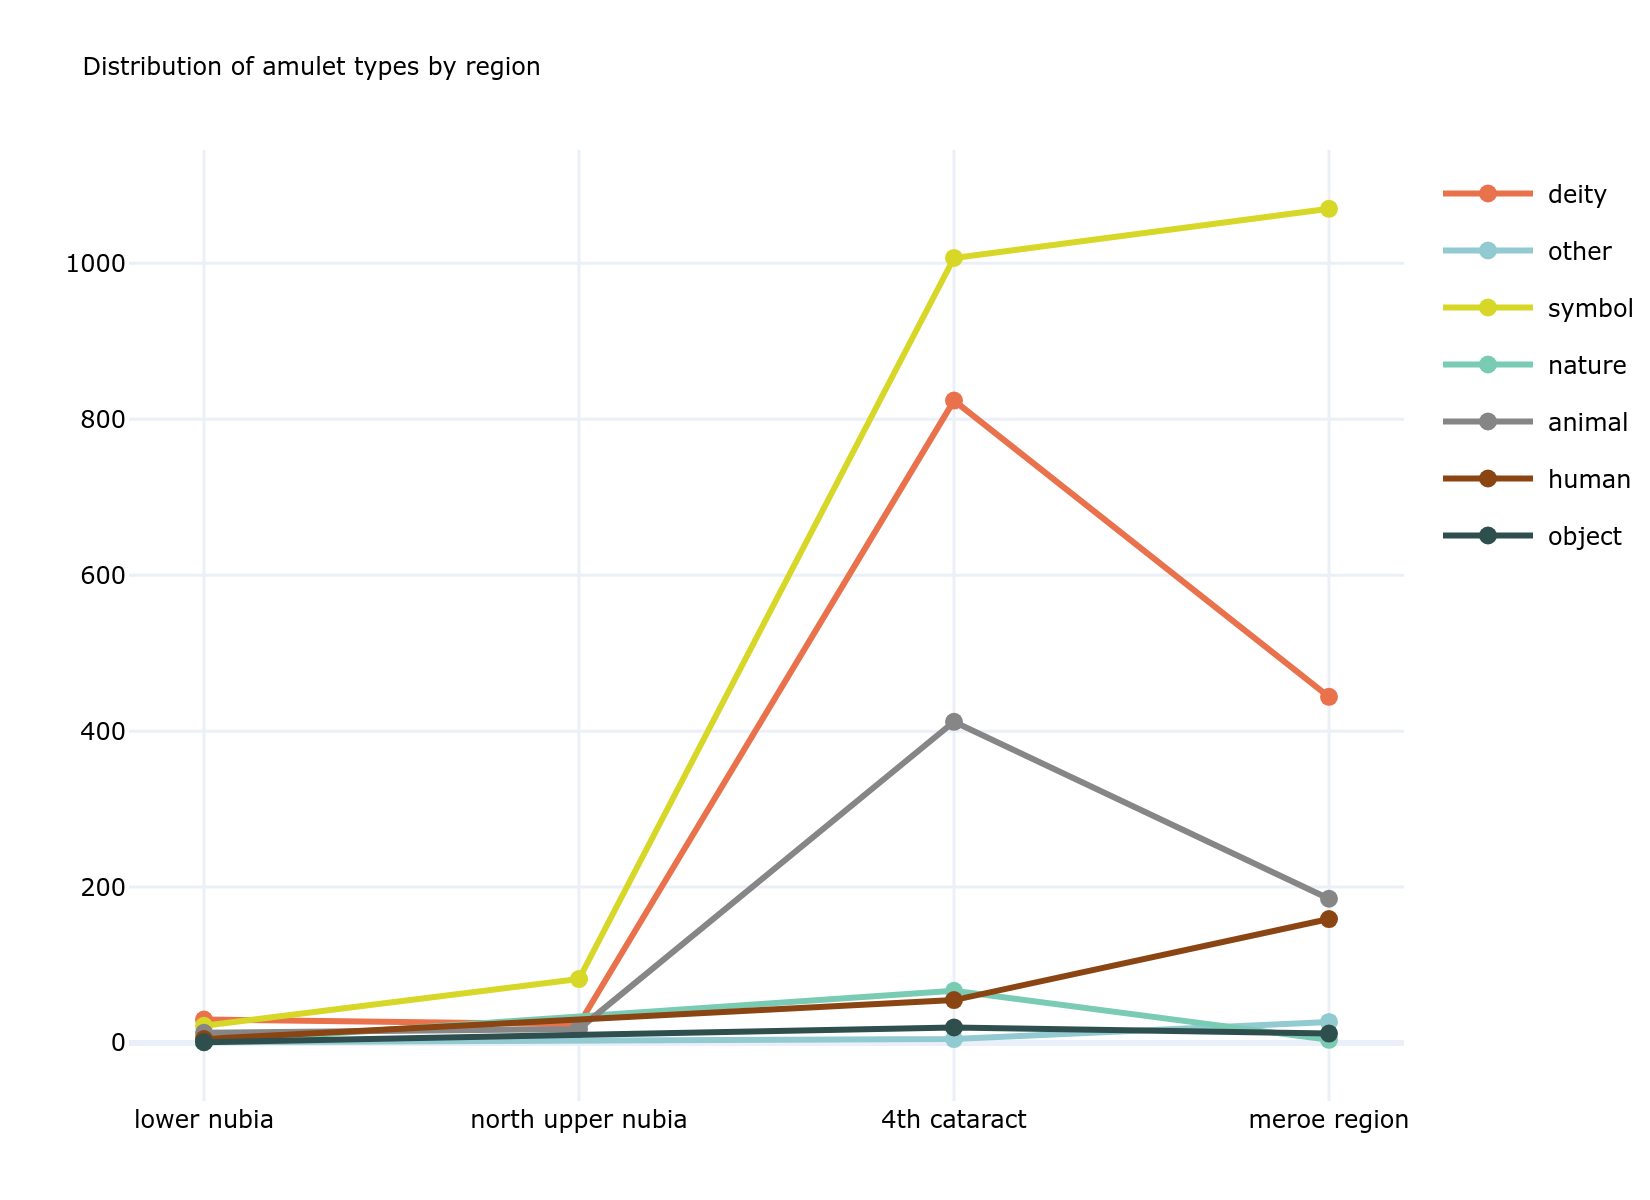
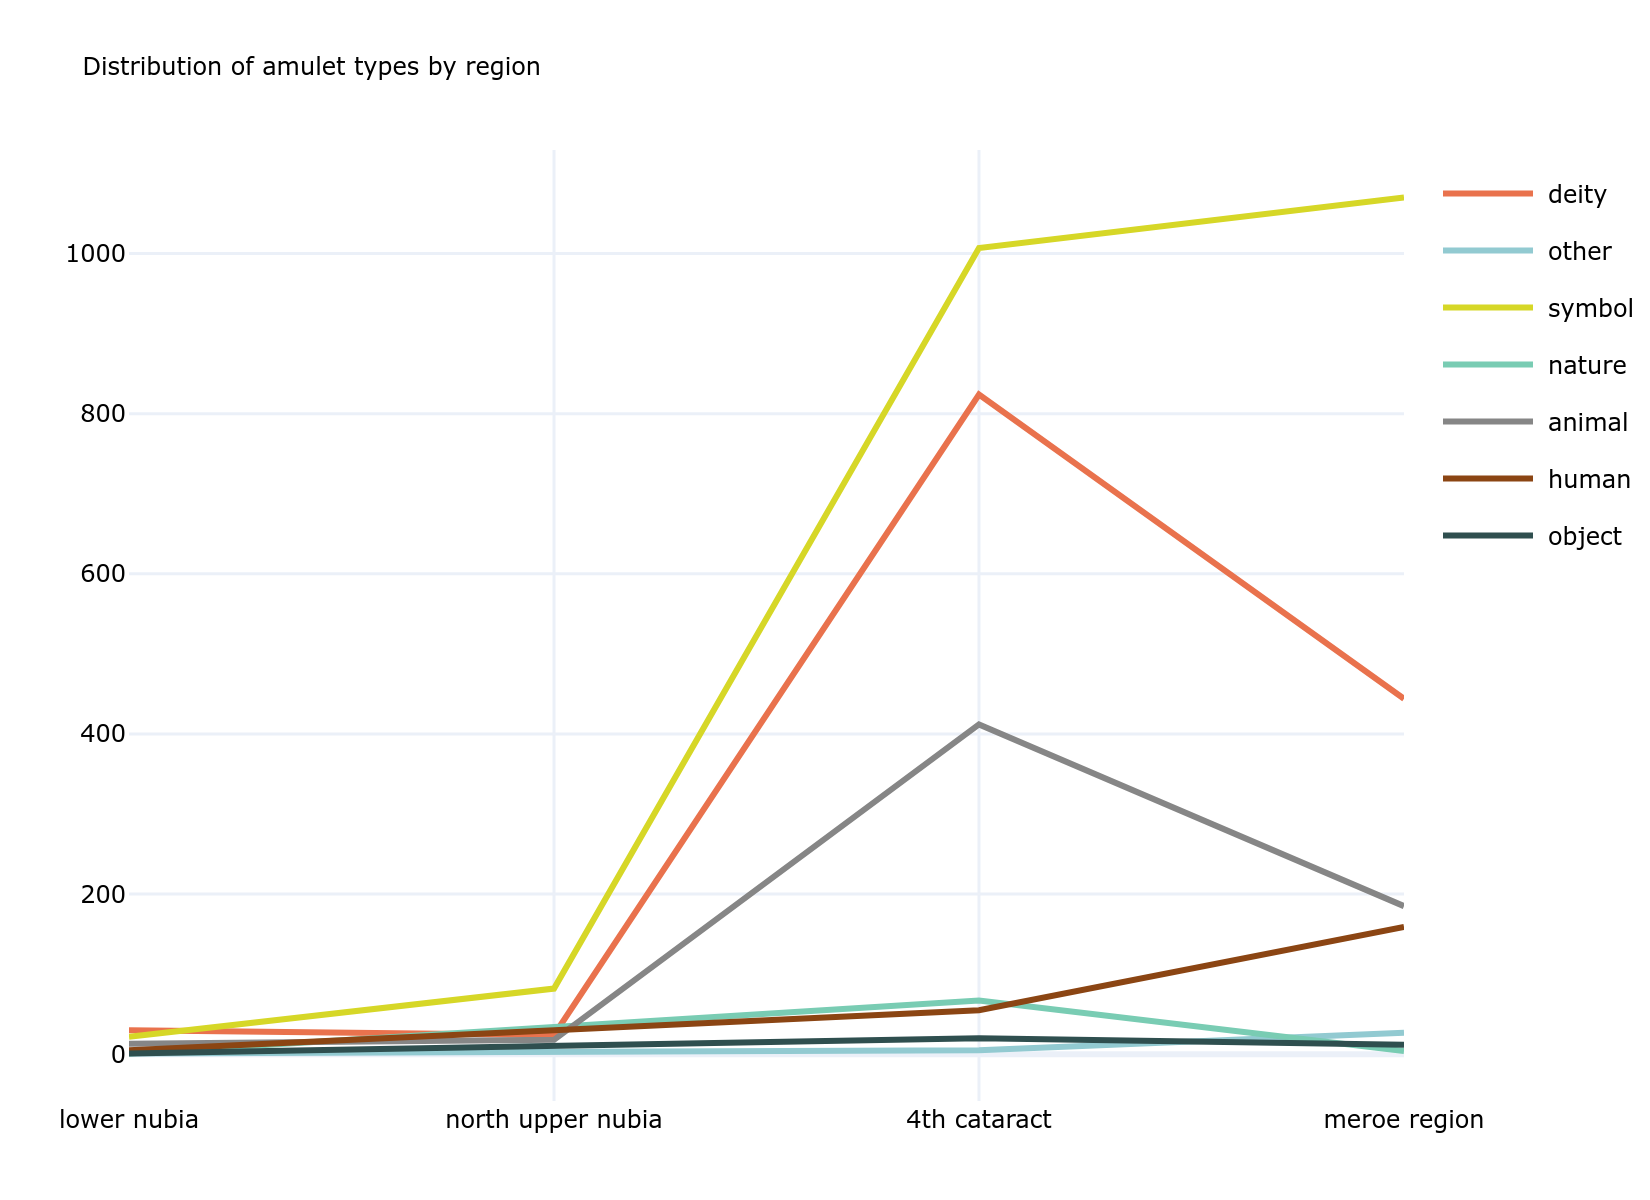
added materials

diff --git a/msac/region_materials.py b/msac/region_materials.py
@@ -1,0 +1,75 @@
+import pandas as pd
+import plotly.express as px
+from sqlalchemy import create_engine
+import plotly.io as pio
+import plotly.graph_objects as go
+
+engine = create_engine(f'mysql+pymysql://{os.getenv"DB_USER")}:{os.getenv("DB_PASSWORD")}@localhost/{os.getenv("DB_NAME")}')
+
+query = """
+SELECT
+    s.region,
+    CASE 
+        WHEN m.material_local = 1 THEN 'local'
+        WHEN m.material_imported = 1 THEN 'imported'
+    END as material_type,
+    COUNT(*) as count,
+    ROUND(
+        COUNT(*) * 100.0 / SUM(COUNT(*)) OVER (PARTITION BY s.region),
+        0
+    ) as percentage
+FROM amulets a
+JOIN materials m ON m.material_name = a.material
+JOIN sites s ON s.site_id = a.site_id
+JOIN burials b ON b.burial_id = a.burial_id
+WHERE dating = 'napatan' 
+    AND b.site_id IN (4,5,6,7,8,9,10) 
+    AND social_group = 'non-elite'
+    AND (m.material_local = 1 OR m.material_imported = 1)
+GROUP BY 1,2
+"""
+
+df = pd.read_sql(query, engine)
+
+custom_colors = ['#e9724d', '#92cad1', '#d6d727', '#79ccb3', '#868686',
+                 '#8b4513', '#2f4f4f', '#ff6b4a', '#20b2aa', '#daa520',
+                 '#cd5c5c', '#4682b4', '#e8ea7a', '#98fb98', '#696969']
+
+region_order = ["meroe region", "4th cataract", "north upper nubia", "lower nubia"]
+
+df['region'] = pd.Categorical(df['region'], categories=region_order, ordered=True)
+
+df = df.sort_values('region')
+
+fig = px.bar(
+    df,
+    x='percentage',
+    y='region',
+    text='percentage',
+    color='material_type',
+    barmode='group',
+    title='Distribution of imported and local materials by region (in %)',
+    template="plotly_white",
+    color_discrete_sequence=custom_colors
+)
+
+fig.update_layout(
+    legend=dict(
+        traceorder='reversed'), 
+    font=dict(
+        family="Verdana, sans-serif",
+        color='black',
+        size=8),
+    legend_title_text='',
+    #yaxis=dict(
+        #tickmode='linear',
+        #dtick=1),
+    margin=dict(l=0, r=10, t=50, b=0),
+    title_font=dict(size=8),
+)
+
+fig.update_traces(textposition='outside', textfont_size=6)
+fig.update_xaxes(title_text='')
+fig.update_yaxes(title_text='')
+
+pio.write_image(fig, 'images/msac/region_materials.png',scale=3, width=550, height=300)

diff --git a/msac/temp_materials.py b/msac/temp_materials.py
@@ -1,0 +1,74 @@
+import pandas as pd
+import plotly.express as px
+from sqlalchemy import create_engine
+import plotly.io as pio
+import plotly.graph_objects as go
+
+engine = create_engine(f'mysql+pymysql://{os.getenv"DB_USER")}:{os.getenv("DB_PASSWORD")}@localhost/{os.getenv("DB_NAME")}')
+
+query = """
+SELECT
+    b.temp,
+    CASE 
+        WHEN m.material_local = 1 THEN 'local'
+        WHEN m.material_imported = 1 THEN 'imported'
+    END as material_type,
+    COUNT(*) as count,
+    ROUND(
+        COUNT(*) * 100.0 / SUM(COUNT(*)) OVER (PARTITION BY b.temp),
+        0
+    ) as percentage
+FROM amulets a
+JOIN materials m ON m.material_name = a.material
+JOIN burials b ON b.burial_id = a.burial_id
+WHERE dating = 'napatan' 
+    AND b.site_id IN (4,5,6,7,8,9,10) 
+    AND social_group = 'non-elite'
+    AND (m.material_local = 1 OR m.material_imported = 1)
+GROUP BY 1,2
+"""
+
+df = pd.read_sql(query, engine)
+
+custom_colors = ['#e9724d', '#92cad1', '#d6d727', '#79ccb3', '#868686',
+                 '#8b4513', '#2f4f4f', '#ff6b4a', '#20b2aa', '#daa520',
+                 '#cd5c5c', '#4682b4', '#e8ea7a', '#98fb98', '#696969']
+
+temp_order = ["MN", "EN", "25th-MN", "25th-EN", "25th", "pre-25th"]
+
+df['temp'] = pd.Categorical(df['temp'], categories=temp_order, ordered=True)
+
+df = df.sort_values('temp')
+
+fig = px.bar(
+    df,
+    x='percentage',
+    y='temp',
+    text='percentage',
+    color='material_type',
+    barmode='group',
+    title='Distribution of imported and local materials by chronological phase (in %)',
+    template="plotly_white",
+    color_discrete_sequence=custom_colors
+)
+
+fig.update_layout(
+    legend=dict(
+        traceorder='reversed'), 
+    font=dict(
+        family="Verdana, sans-serif",
+        color='black',
+        size=8),
+    legend_title_text='',
+    #yaxis=dict(
+        #tickmode='linear',
+        #dtick=1),
+    margin=dict(l=0, r=10, t=50, b=0),
+    title_font=dict(size=8),
+)
+
+fig.update_traces(textposition='outside', textfont_size=6)
+fig.update_xaxes(title_text='')
+fig.update_yaxes(title_text='')
+
+pio.write_image(fig, 'images/msac/temp_materials.png',scale=3, width=550, height=300)

diff --git a/msac/region_type.py b/msac/region_type.py
@@ -35,7 +35,7 @@ fig = px.line(
     x='region',
     y='total',
     color='type',
-    markers=True,
+    markers=False,
     title='Distribution of amulet types by region',
     template="plotly_white",
     color_discrete_sequence=custom_colors
